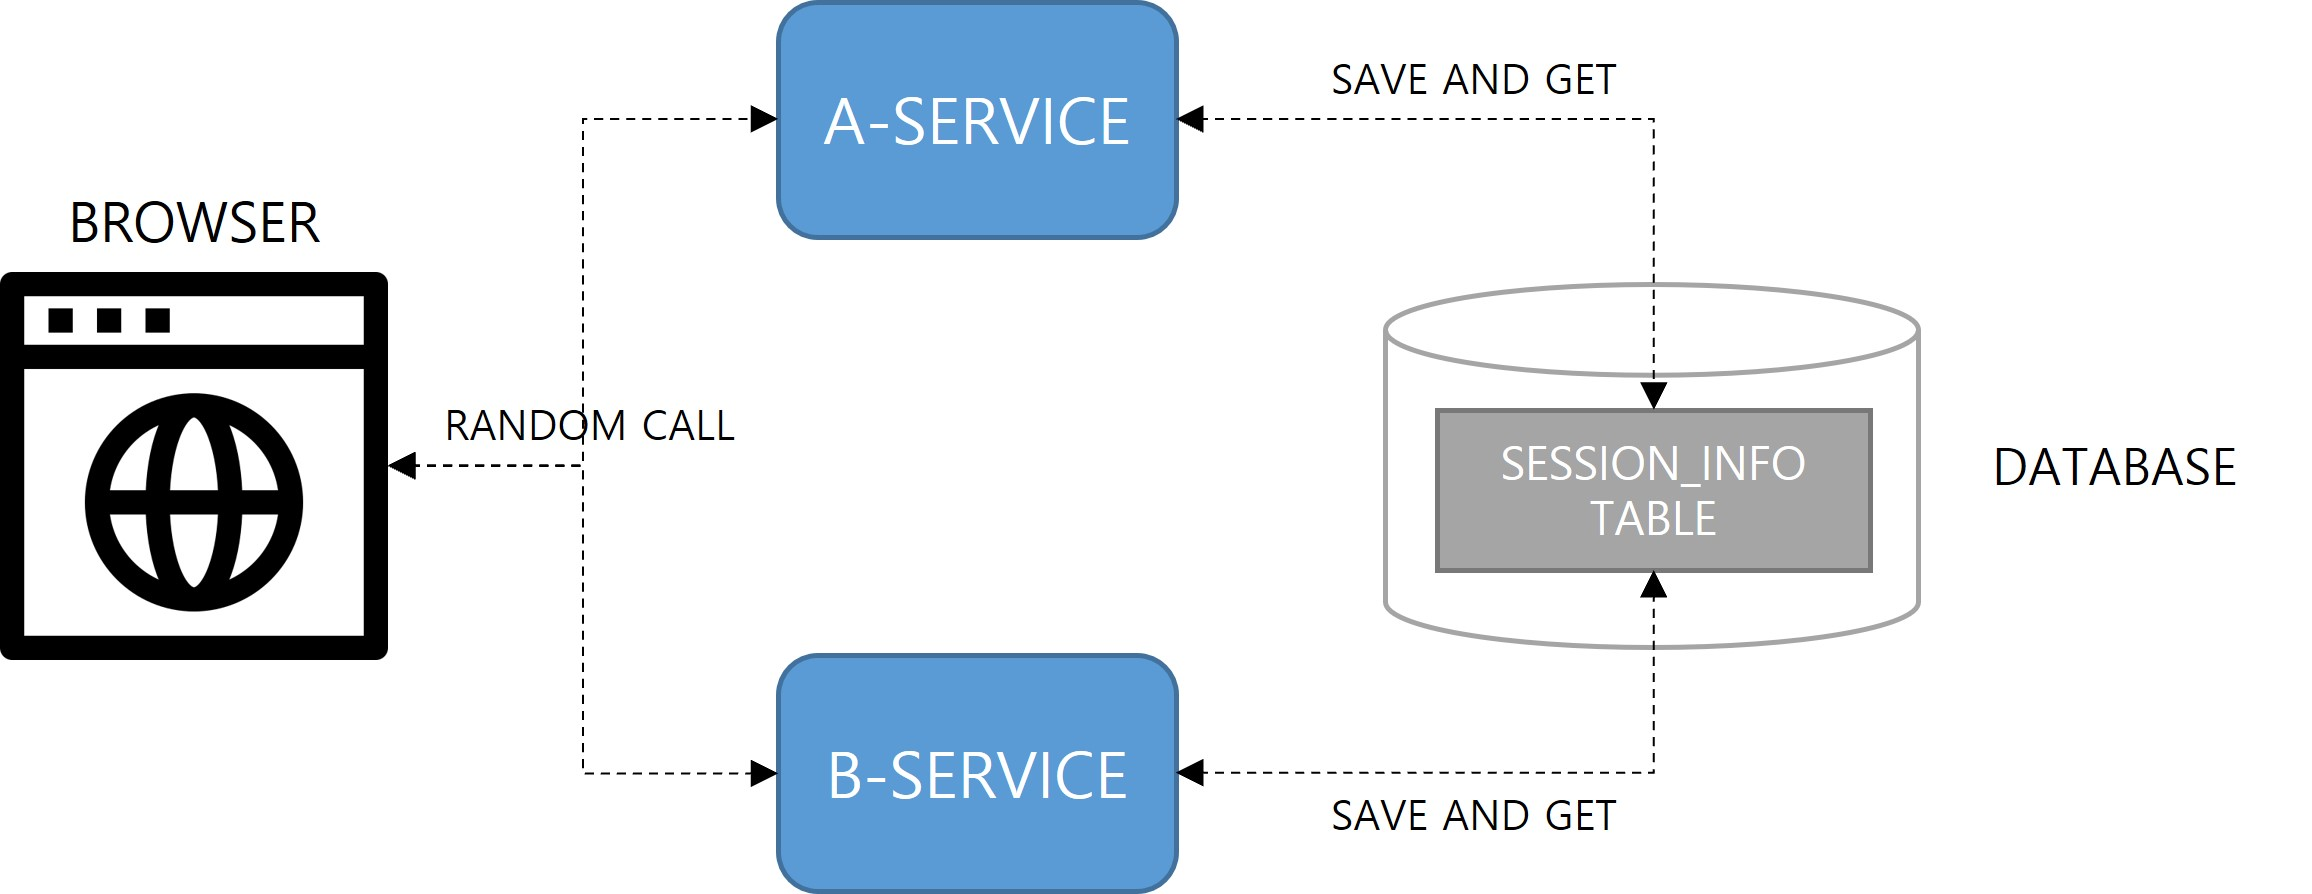
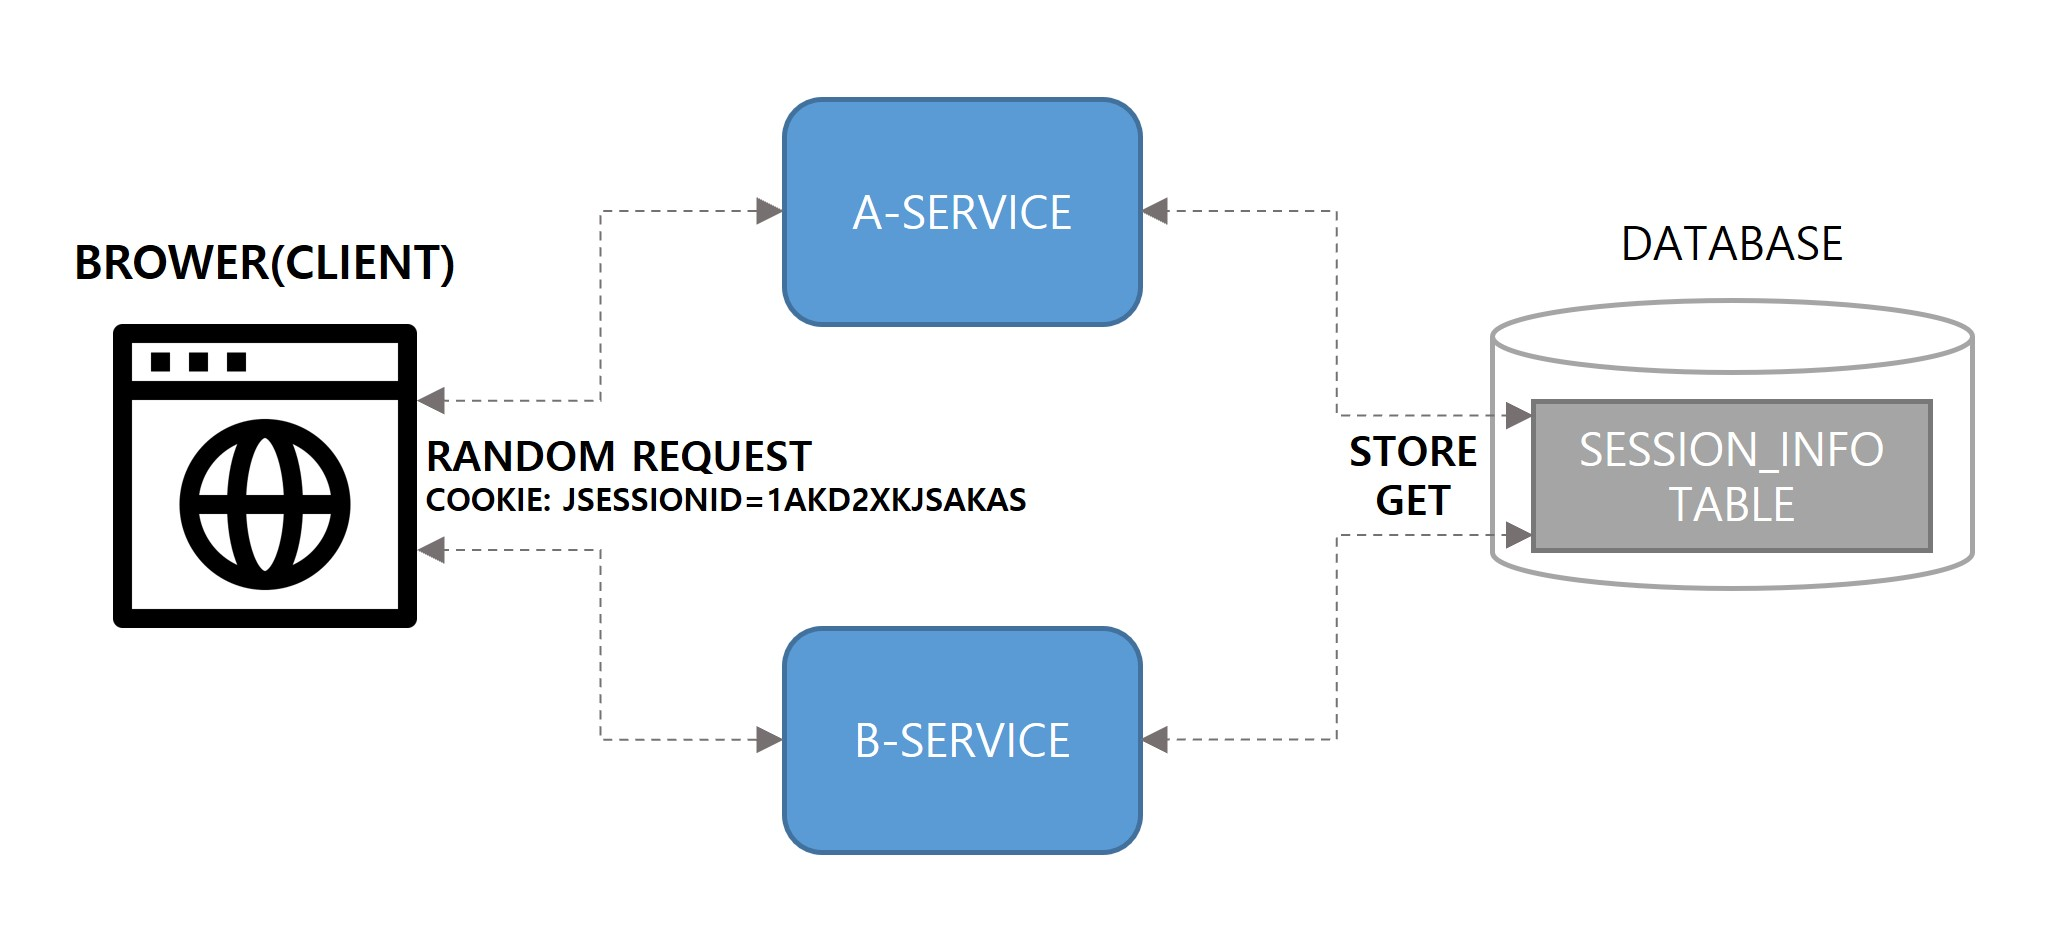
Docs 이미지 사이즈 변경 및 이미지 변경

diff --git a/_posts/2021-09-26-spring-session.md b/_posts/2021-09-26-spring-session.md
@@ -28,7 +28,7 @@ last_modified_at: 2021-09-26T23:55:00
 - 동일 `JSESSIONID`를 이용하여 요청하므로 서버에서 관리하는 세션(Session) 정보는 변경되지 않습니다.
 - 세션에 저장한 데이터를 페이지 표시하여, 두 인스턴스의 세션 데이터가 공유되는지 확인합니다.
 
-<p align="center"><img src="/images/spring-session-1.JPG" width="80%"></p>
+<p align="center"><img src="/images/spring-session-1.JPG" width="95%"></p>
 
 ## 2. 세션 관리 테이블 생성
 세션과 관련된 정보를 데이터베이스에서 관리하려면 테이블이 필요합니다. 
